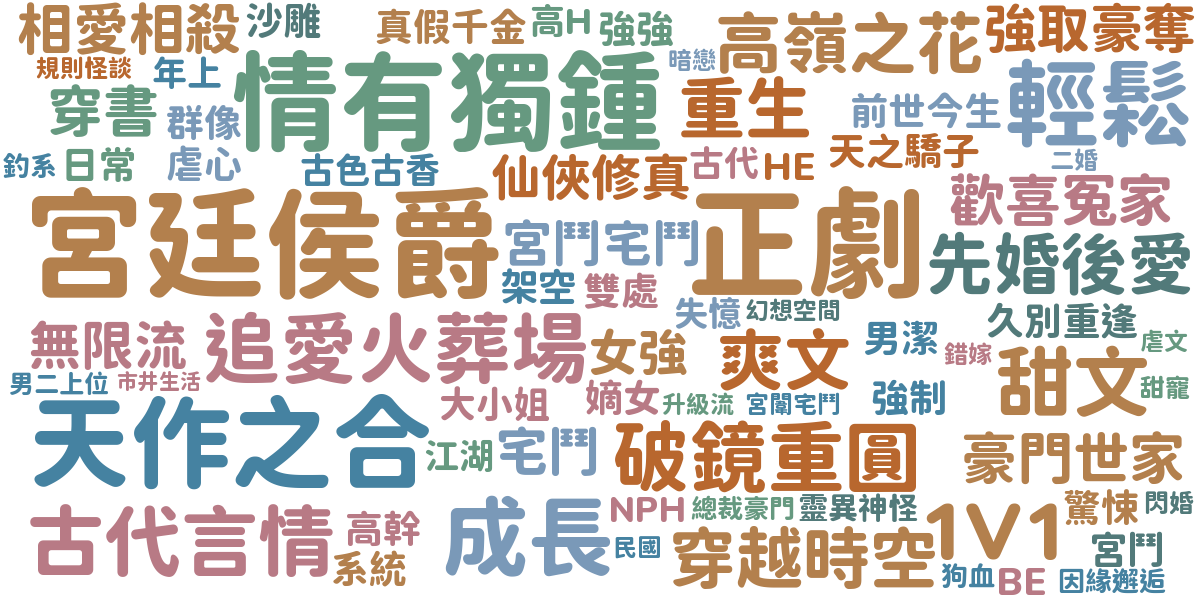
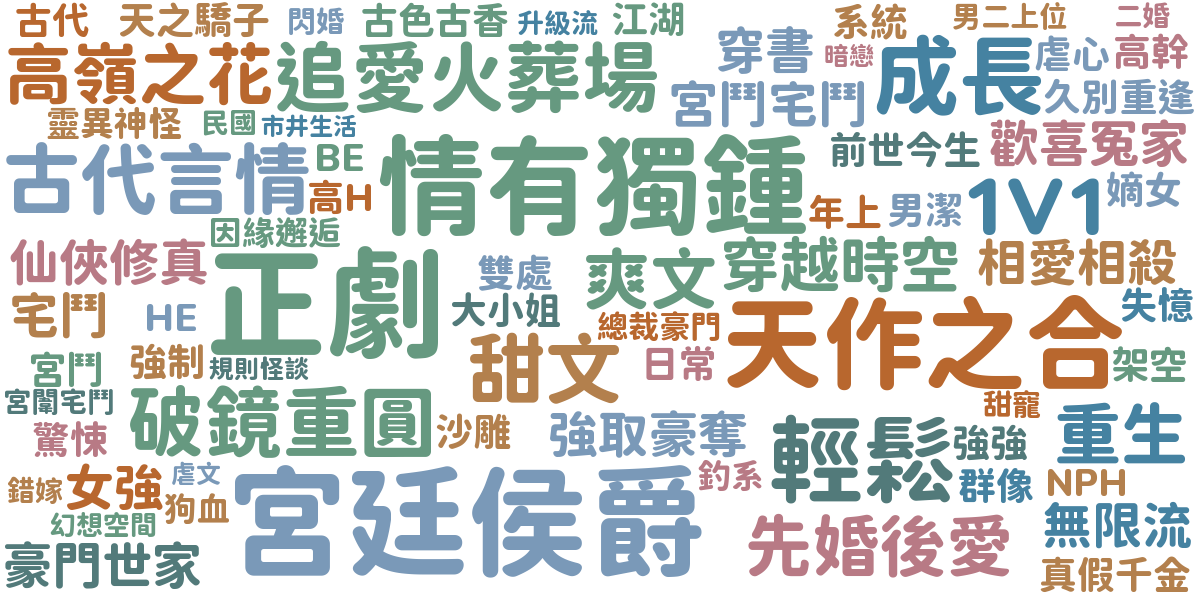
☁ Update reading word cloud via GitHub Actions

diff --git a/public/word_cloud.html b/public/word_cloud.html
@@ -23,6 +23,6 @@
     </style>
 </head>
 <body>
-    <img src="word_cloud.png?t=1775435994" alt="Word Cloud">
+    <img src="word_cloud.png?t=1775522357" alt="Word Cloud">
 </body>
 </html>
